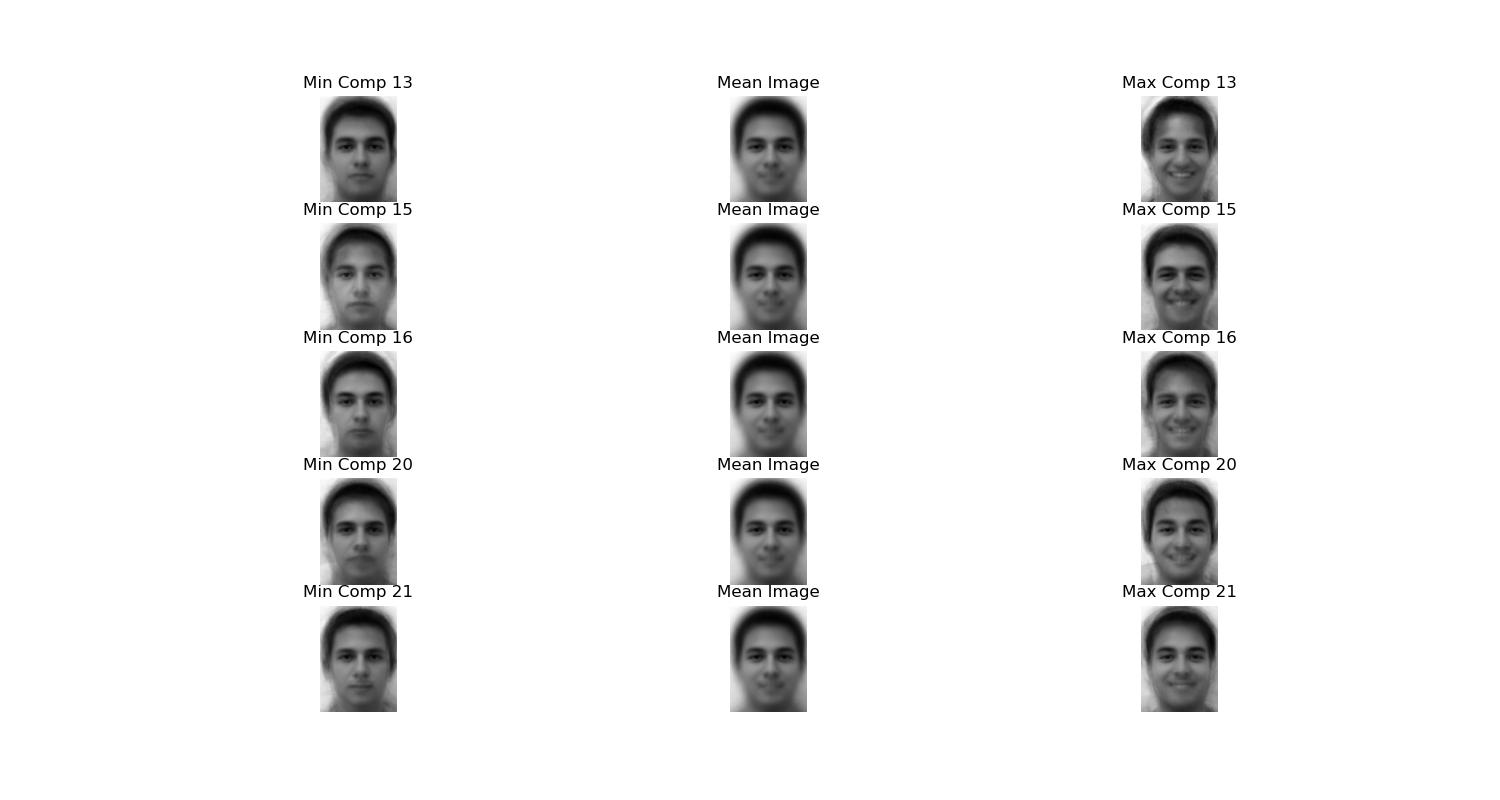
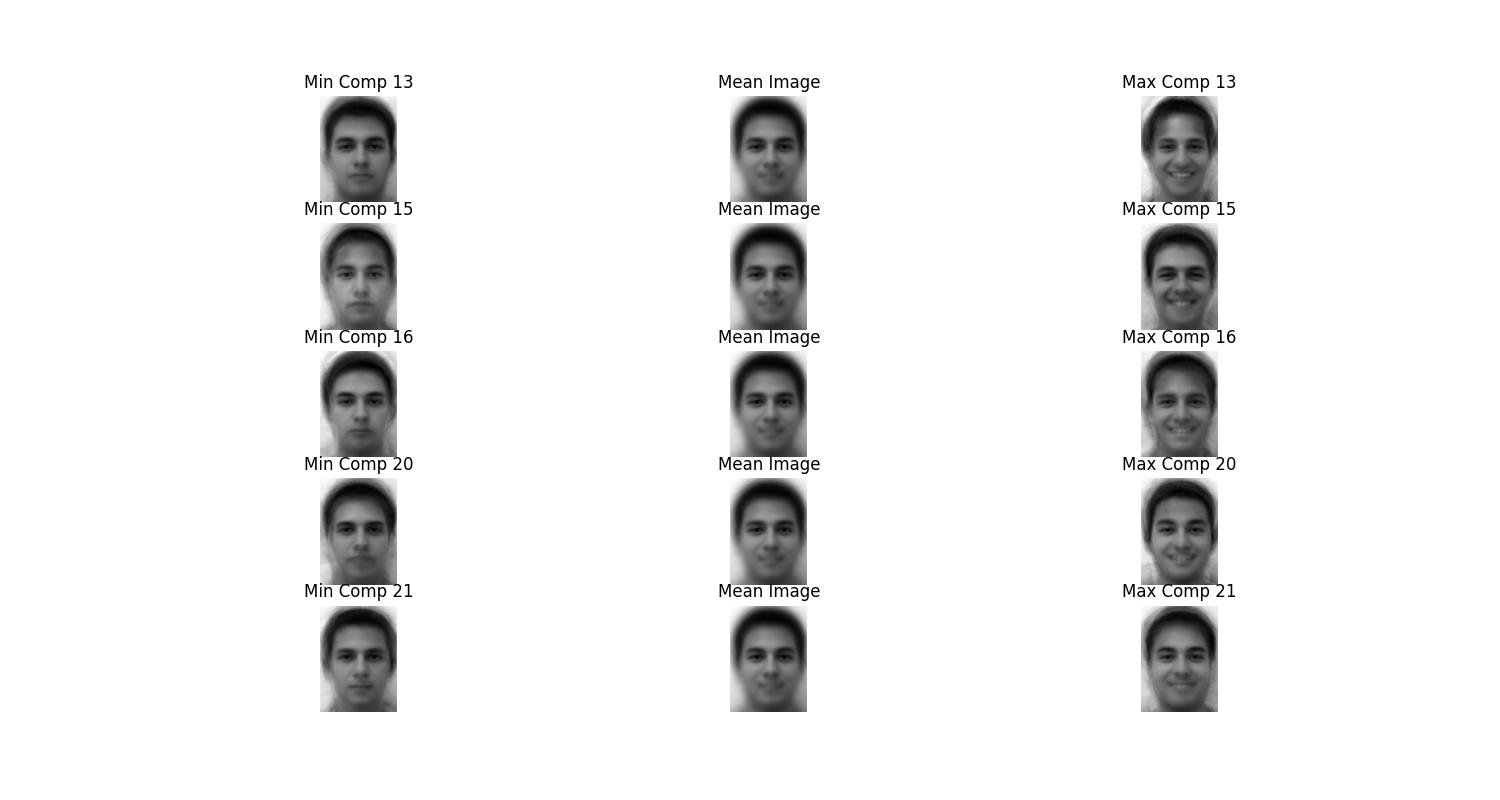
Generate synthetic images from the model

diff --git a/feature_selection.py b/feature_selection.py
@@ -1,139 +1,253 @@
-# %%
+# %% 
+# Load the package
 import cv2
 import numpy as np
 import pandas as pd
+import matplotlib.pyplot as plt
 from matplotlib.image import imread
 from pathlib import Path
-import matplotlib.pyplot as plt
 from sklearn.preprocessing import MinMaxScaler
 from sklearn.decomposition import PCA
 from sklearn.feature_selection import SequentialFeatureSelector
 from sklearn.linear_model import LinearRegression
-from tqdm import tqdm
-# Read the CSV file and save it to X and Y
-Y = []
-X = []
-directory_path = Path('data/')
 
+# %%
+def data_loading(rating_dir, image_dir):
+    """
+    Read the CSV file and load image data.
 
-# Set the target size for resizing the images (e.g., 128x128)
+    Args:
+        rating_dir (str): Directory containing the rating CSV files.
+        image_dir (str): Directory containing the images.
 
-print("Reading files...")
-for file in directory_path.rglob('*.csv'):  
-    data = pd.read_csv(file)
-    
-    for img_name in data.ImageName:
-        img_path = "frontalimages_manuallyaligne_greyscale/" + img_name
+    Returns:
+        np.ndarray: Array of flattened face images.
+        np.ndarray: Array of corresponding ratings.
+        tuple: Size of the images.
+    """
+    Y = []
+    X = []
+
+    directory_path = Path(rating_dir)
+
+    print("Reading files...")
+    for file in directory_path.rglob('*.csv'):  
+        data = pd.read_csv(file)
         
-        img=imread(str(img_path))
+        for img_name in data.ImageName:
+            img_path = image_dir + img_name
+            
+            img=imread(str(img_path))
+            img_size = img.shape
+            X.append(img.flatten())  # Flatten the image to 1D array
         
         
-        
-        X.append(img.flatten())  # Flatten the image to 1D array
-    
-    # Extend the labels
-    Y.extend(data.Rating)
-    # Convert list of flattened images to a numpy array
-faces = np.array(X)
-labels = np.array(Y)
+        Y.extend(data.Rating)
+    return np.array(X), np.array(Y), img_size
+
+# %%
+def preprocessing(faces, labels):
+    """
+    Normalize the face images by subtracting the average image, and scale ratings to the range [0, 1].
+
+    Args:
+        faces (np.ndarray): Array of flattened face images.
+        labels (np.ndarray): Array of ratings.
+
+     Returns:
+        np.ndarray: Face images with average image removed.
+        np.ndarray: Scaled ratings.
+    """
+
+    # Data preprocessing
+    print("Subtract the image and Normalize labels...")
+    # Compute the average image
+    avg = np.mean(faces, axis=0)
+    # Subtract the average image from each image
+    faces = faces -avg
+
+    # Initialize MinMaxScaler to scale data to range 0-1
+    scaler = MinMaxScaler(feature_range=(0, 1))
+    # Reshape labels into 2D input)
+    labels = labels.reshape(-1, 1)
+    # Normalize
+    normalized_labels = scaler.fit_transform(labels)
+    # Flatten it back to 1D 
+    normalized_labels = normalized_labels.reshape(faces.shape[0],1)
+
+    return faces, normalized_labels
 
 
 # %%
-print("Normalize the image and labels...")
-# Compute the average image
-avg = np.mean(faces, axis=0)
+def select_features(pca_transformed, labels):
+    """
+    Use forward selection to select the relevant PCs for the model
 
-# Subtract the average image from each image
-faces = faces -avg
+    Args:
+        pca_transformed (np.ndarray): PCA-transformed face images.
+        labels (np.ndarray): Scaled ratings.
+
+    Returns:
+        LinearRegression: A linear regression model.
+        np.ndarray: Indices of selected PCA components.
+    """
+    print("Processing Feature Selction...")
+    # Create a linear regression model
+    lr = LinearRegression()
+
+    # Use sequential feature selector to select 5 features
+    n_features_to_select = 5
+    sfs_forward = SequentialFeatureSelector(
+        lr, n_features_to_select=n_features_to_select, direction='forward'
+    )
+    # Fit Sequential Feature Selector
+    print(f"Selecting {n_features_to_select} features:")
+    sfs_forward.fit(pca_transformed , labels)
+
+    # Show the chosen features
+    selected_features = sfs_forward.get_support(indices=True)
+    # Print the selected features
+    print("The selected feature indices are:", selected_features)
+    return lr, selected_features
+
+
 # %%
-# Initialize MinMaxScaler to scale data to range 0-1
-scaler = MinMaxScaler(feature_range=(0, 1))
+def visualize_PC(pca_data):
+    """
+    Visualize images corresponding to the minimum, mean, and maximum projections onto selected PCA components.
 
-# Reshape labels if it's a 1D array (scikit-learn expects 2D input)
-labels = labels.reshape(-1, 1)
+    Args:
+        pca_data (dict): A dictionary containing the PCA model, average image, image size, transformed data, and selected features.
+    """
+    print("Visualizing selected PCA components...")
+    
+    pca = pca_data['pca']
+    avg = pca_data['avg']
+    img_size = pca_data['img_size']
+    pca_transformed = pca_data['pca_transformed']
+    selected_features = pca_data['selected_features']
 
-# Fit the scaler to your data and transform it
-normalized_labels = scaler.fit_transform(labels)
+    plt.figure(figsize=[15, 8])
+    for i, component in enumerate(selected_features):
+        pca_component = pca_transformed[:, component]
+        max_idx, min_idx = np.argmax(pca_component), np.argmin(pca_component)
+        
+        def reconstruct(index):
+            pc_space = np.zeros_like(pca_transformed)
+            pc_space[:, component] = pca_transformed[:, component]
+            return (pca.inverse_transform(pc_space[index]) + avg).reshape(img_size)
+        
+        plt.subplot(5, 3, 3 * i + 1)
+        plt.imshow(reconstruct(min_idx), cmap='gray')
+        plt.title(f"Min Projection (PC {component})")
+        plt.axis('off')
+        
+        plt.subplot(5, 3, 3 * i + 2)
+        plt.imshow(avg.reshape(img_size), cmap='gray')
+        plt.title("Mean Image")
+        plt.axis('off')
+        
+        plt.subplot(5, 3, 3 * i + 3)
+        plt.imshow(reconstruct(max_idx), cmap='gray')
+        plt.title(f"Max Projection (PC {component})")
+        plt.axis('off')
+    
+    plt.savefig('Selected_PCA_components.jpg')
+    plt.show()
 
-# If you want to flatten it back to 1D (in case of a single feature):
-normalized_labels = normalized_labels.reshape(faces.shape[0],1)
+#%%
+def generate_images(model, ratings):
+    """
+    Generate images based on provided ratings and a trained model.
+
+    Args:
+        model (LinearRegression): Trained linear regression model.
+        ratings (list): List of ratings for each feature.
+
+    Returns:
+        list: Generated images corresponding to the ratings.
+    """
+    generated_images = []
+    delta, w = model.intercept_, model.coef_
+    
+    print("Generating images based on provided ratings...")
+    for rating in ratings:
+        generated_images.append((rating - delta) * w / np.linalg.norm(w) ** 2)
+    
+    return generated_images
 
 
+#%%
+def visualize_generated(generated, pca_data, ratings_generate):
+    """
+    Visualize the generated images.
+
+    Args:
+        generated_images (list): List of generated images.
+        pca_data (dict): Dictionary containing PCA data.
+        ratings_generate (list): List of ratings used to generate the images.
+    """
+    fig, axes = plt.subplots(1, len(ratings_generate), figsize=(20, 5))
+    for i, image in enumerate(generated):
+        # Calculate the image data
+        image_data = (image @ pca_data['pca'].components_[pca_data['selected_features'], :] * 0.05 + pca_data['avg']).reshape(pca_data['img_size'])
+         # Display the image in the appropriate subplot
+        axes[i].imshow(image_data, cmap='gray')
+        axes[i].set_title(f'Rating {ratings_generate[i]}')
+        axes[i].axis('off')
+    
+    plt.tight_layout()
+    plt.savefig('Generated_image.jpg')
+    plt.show()
+    
 # %% 
-print("Processing PCA....")
-pca = PCA()
-pca.fit(faces)
+def PCA_transform(ratings_generate):
+    """
+    Perform PCA, select relevant features, and generate images based on specified ratings.
 
-components = pca.components_
-# Visually present the first few PCA components as images
-pca_transformed = pca.transform(faces)
-
-# %%
-print("Processing Feature Selction...")
-lr = LinearRegression()
-
-# Sequential Feature Selector
-n_features_to_select = 5
-sfs_forward = SequentialFeatureSelector(
-    lr, n_features_to_select=n_features_to_select, direction='forward'
-)
-
-
-# Fit Sequential Feature Selector
-print(f"Selecting {n_features_to_select} features:")
-with tqdm(total=n_features_to_select) as pbar:
-    sfs_forward.fit(pca_transformed , normalized_labels)
-    for _ in range(n_features_to_select):
-        pbar.update(1)  # Update progress for each feature selected
-
-# %%
-selected_features = sfs_forward.get_support(indices=True)
-
-# Print the selected features
-print("The selected feature indices are:", selected_features)
-
-# Optionally, you can retrieve the actual PCA components associated with the selected features
-print("The selected PCA components are:")
-for idx in selected_features:
-    print(idx, pca.components_[idx])
-# %%a
-plt.figure(figsize=[15,8])
-for i, component_index in enumerate(selected_features):
-
-    # Select the PCA component to analyze 
-    pca_component = pca_transformed[:, component_index]
-    # Find the images with the maximum and minimum projection scores for the component
-    max_score_index = np.argmax(pca_component)
-    min_score_index = np.argmin(pca_component)
-
-    # Reconstruct images 
-    def reconstruct(index, n_components=1):
-        # Keep only the first n_components, set the rest to 0
-        pca_keep = np.zeros_like(pca_transformed)
-        pca_keep[:, n_components] = pca_transformed[:, n_components]
-        return (pca.inverse_transform(pca_keep[index])+avg).reshape(img.shape)
-
-    max_reconstructed = reconstruct(max_score_index, n_components=component_index)
-    min_reconstructed = reconstruct(min_score_index, n_components=component_index)
-
-    # Visualize the min, mean, and max images
-    # Min Image
-    plt.subplot(5, 3, 3*i + 1)  # 3 rows, 3 columns, fill in order
-    plt.imshow(min_reconstructed, cmap='gray')
-    plt.title(f"Min Comp {component_index}")
-    plt.axis('off')
+    Args:
+        ratings_generate (list): Ratings to use for generating images.
+    """
     
-    # Mean Image
-    plt.subplot(5, 3, 3*i + 2)
-    plt.imshow(avg.reshape(img.shape), cmap='gray')
-    plt.title(f"Mean Image")
-    plt.axis('off')
+    faces, labels, img_size = data_loading(rating_dir='data/', image_dir="frontalimages_manuallyaligne_greyscale/")
+    
+    avg = np.mean(faces, axis=0)
+    
+    normal_faces, normal_labels = preprocessing(faces, labels)
 
-    # Max Image
-    plt.subplot(5, 3, 3*i + 3)
-    plt.imshow(max_reconstructed, cmap='gray')
-    plt.title(f"Max Comp {component_index}")
-    plt.axis('off')
-plt.savefig('Selected_PCA_component.jpg')
-plt.show()
-# %%
+    # Run PCA and transform image to the PCA
+    print("Processing PCA....")
+    # Fit the PCA
+    pca = PCA()
+    pca.fit(normal_faces)
+    
+    # Transform the image
+    transformed = pca.transform(normal_faces)
+
+    model, features = select_features(transformed, normal_labels)
+    
+    pca_data = {
+                'pca': pca,
+                'avg': avg,
+                'img_size': img_size,
+                'pca_transformed': transformed,
+                'selected_features': features
+                }
+
+    visualize_PC(pca_data)
+    
+    model.fit(transformed[:, features], normal_labels)
+    generated = generate_images(model, ratings_generate)
+    
+    
+    visualize_generated(generated, pca_data, ratings_generate)
+
+    
+
+#%% 
+
+if __name__ == "__main__":
+    ratings_generate = [-9,-7,-5,-3,-1,0,1,3,5,7,9]
+    
+    PCA_transform(ratings_generate)
+
